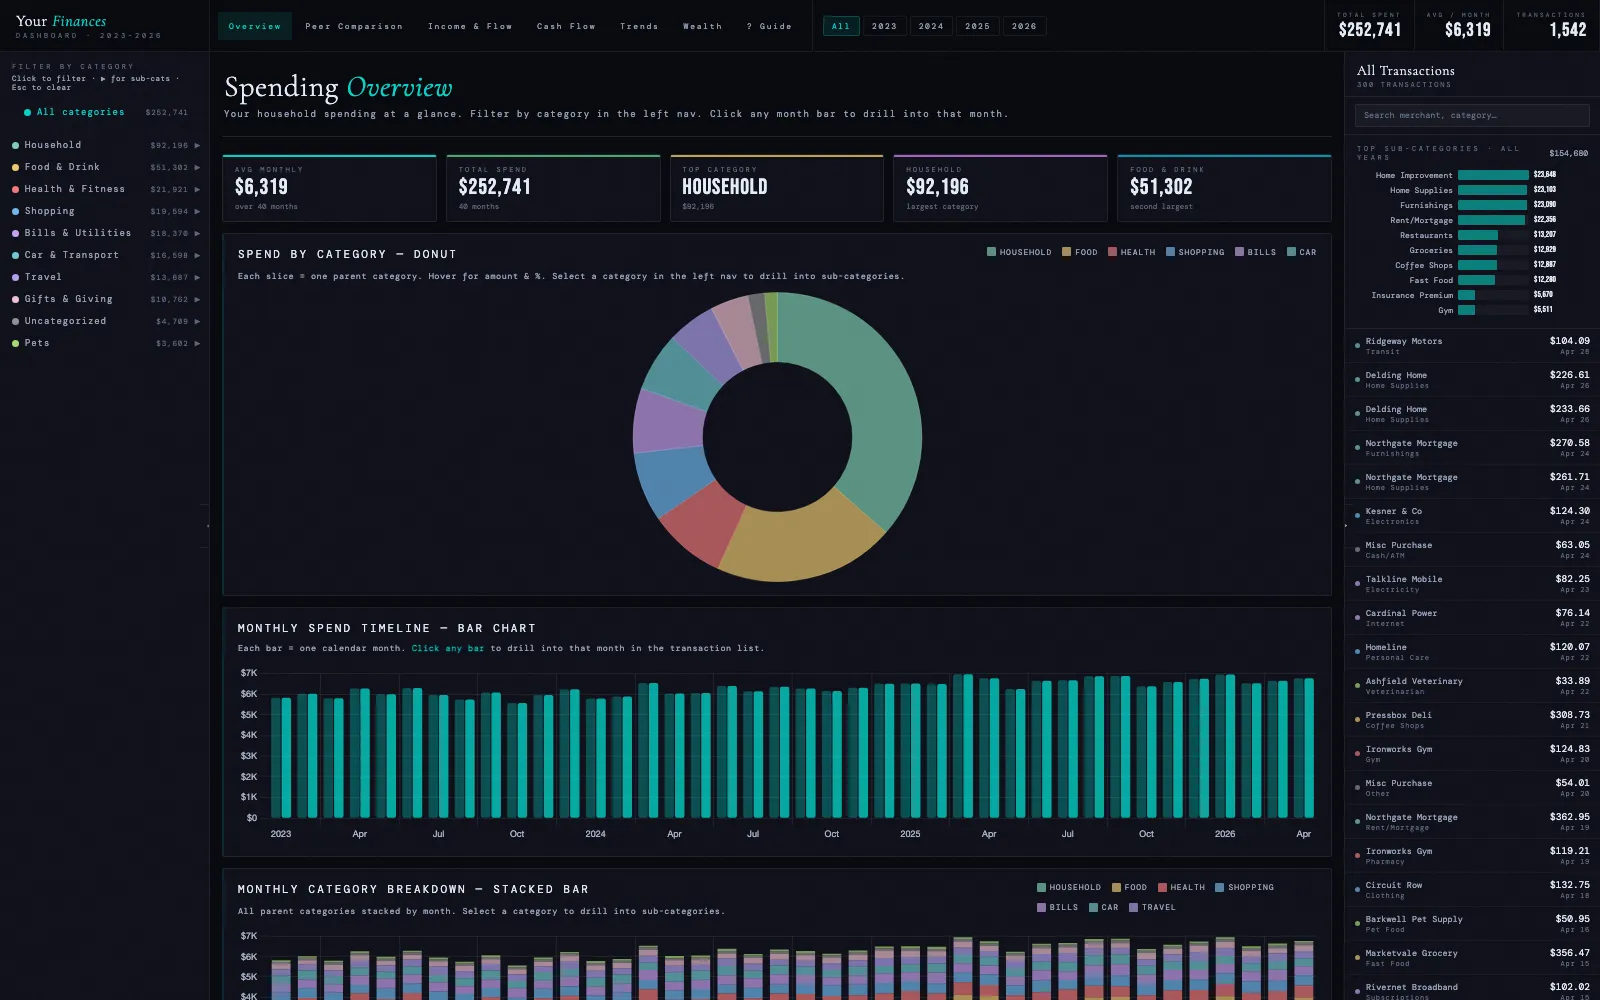
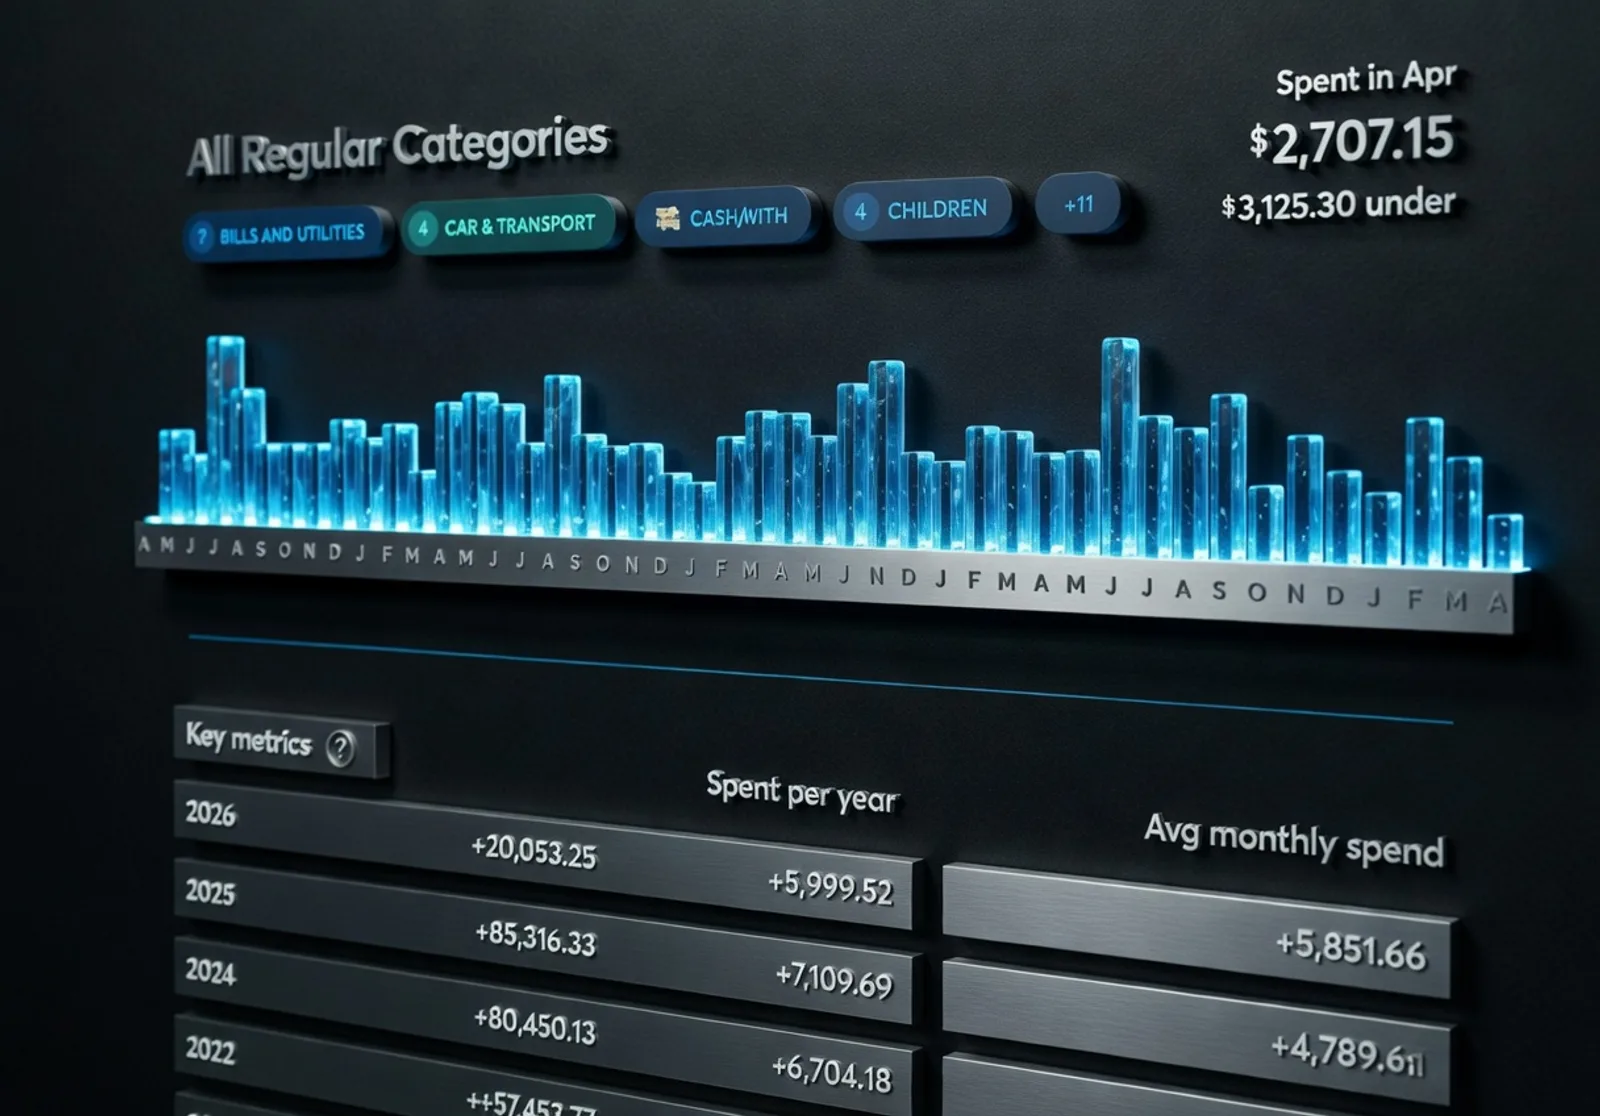
Cover art leads on piece 49, with the app captures behind it
Patrick's macro replaces the headless-Chrome capture as the hero, which
restores the S-11 convention: the card is packaging, and the real render
lives one click away. The capture is not discarded — it moves into the
crossfade set, so the sequence is now cover art followed by three real
views of the running app (overview, peer comparison, cash-flow Sankey),
all against the synthetic dataset.

imageCrop goes from top to center; the macro is 1216x848 and composed
around its middle, where the captures were top-weighted screenshots.

diff --git a/src/lib/projects.ts b/src/lib/projects.ts
@@ -1792,13 +1792,17 @@ const RAW_PROJECTS: Omit<Project, "accent">[] = [
       "Every budgeting app tells you what you spent. Almost none tell you whether that is a lot. The interesting question is not the total, it is the deviation — and the public benchmark data to answer it has been free the whole time.",
     method:
       "Vanilla JavaScript, Chart.js and d3-sankey on Vite. One fetch of `data.json` and every view derives from it: the year selector comes from the keys of `by_year_total`, the benchmark year is the latest with twelve full months, and the Sankey colours categories from the palette in the data and hashes every other node name. A Python generator ships a synthetic dataset and asserts four consistency properties before writing — monthly to yearly, subcategory to parent, transactions to month, income minus expenses to net savings — because charts do not validate their inputs and an inconsistent file renders confidently and wrongly.",
+    /* Cover art leads and three real captures follow — the S-11 rule. The
+       captures are of the synthetic-data build, so every merchant visible in
+       them is invented. */
     image: "/images/work/personal-finance-dashboard.webp",
     images: [
       "/images/work/personal-finance-dashboard.webp",
+      "/images/work/personal-finance-dashboard-app.webp",
       "/images/work/personal-finance-dashboard-2.webp",
       "/images/work/personal-finance-dashboard-3.webp",
     ],
-    imageCrop: "top",
+    imageCrop: "center",
     link: "https://github.com/Ptander01/Personal-Finance-Dashboard",
     source:
       "Benchmarks: BLS Consumer Expenditure Survey 2024 · Census ACS 2024 · CPS ASEC 2024. Demo data synthetic.",
